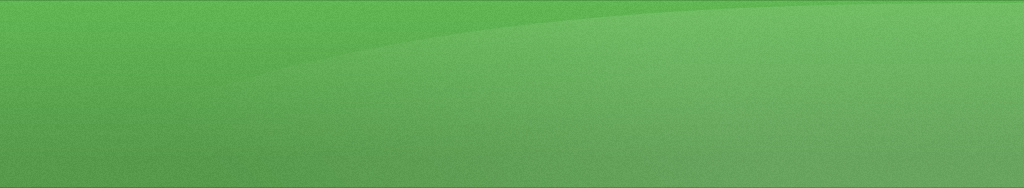
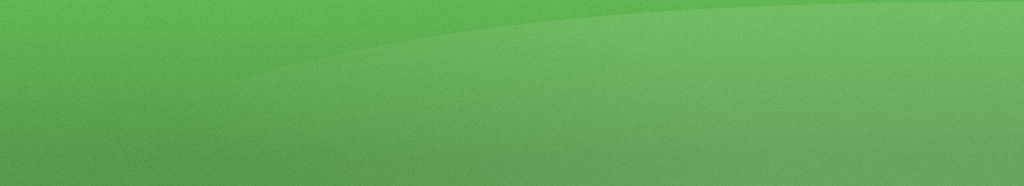
Expanded backgrounds

Changed region(s): [[0.0, 0.9946, 1.0, 1.0], [0.0, 0.0, 1.0, 0.0269]]

diff --git a/content/discussion.html b/content/discussion.html
@@ -14,9 +14,9 @@
     <div class="left">
       <p>This dataset is pretty cool, it’s almost what I need for my PhD on seahorse behaviour. But I find some problems in the performed methodology, and I would like to contact the author to check if it’s possible to access a raw, punprocessed dataset</p>
       <p>I’ve been processing the data on an Excel file and the total ampount of occurrences I find does not match with the amount given by the GBIF filtering.</p>
-      <footer>
+      <div class="footer">
       <a href="#">reply</a> <span class="reply-count">(1 reply below)</span>
-      </footer>
+      </div>
     </div>
     <div class="right">
 
@@ -31,9 +31,9 @@
   <div class="comment reply">
     <div class="left">
       <p>Hi Leslie. I’ve had the same problemas and (good news!) they can be fixed. What you have to do is this and that and.</p>
-      <footer>
+      <div class="footer">
       <a href="#">reply</a> <span class="reply-count">(1 reply below)</span>
-      </footer>
+      </div>
     </div>
     <div class="right">
 
@@ -48,9 +48,9 @@
   <div class="comment">
     <div class="left">
       <p>Mmm I disagree. I think this dataset has a big problem with the recolection methodology used for capturing seahorses. The author is using lactose to bail them, a well-recognized toxic substance for this kind of creatures.</p>
-      <footer>
+      <div class="footer">
       <a href="#">reply</a> <span class="reply-count">(1 reply below)</span>
-      </footer>
+      </div>
     </div>
     <div class="right">
 
@@ -65,7 +65,7 @@
 </div>
 
 <div class="header"></div>
-<div class="footer"></div>
+<div class="box_footer"></div>
 </article>
 
 
@@ -92,5 +92,5 @@
 </div>
 <div class="triangle"></div>
 <div class="header"></div>
-<div class="footer"></div>
+<div class="box_footer"></div>
 </article>

diff --git a/content/assets/css/_header.scss b/content/assets/css/_header.scss
@@ -1,10 +1,9 @@
 header {
   position:relative;
-  margin:auto;
-  width:1024px;
   padding-top:3px;
-  background:url('/assets/img/top_bar.jpg') top left repeat-x;
-  text-align:left;
+  background:url('/assets/img/top_bar.jpg') repeat-x;
+  height:285px;
+  text-align:center;
 
   #logo {
     position:absolute;
@@ -42,8 +41,20 @@ header {
 
   #top {
     position:relative;
-    background: url('/assets/img/top_header_bkg.jpg') no-repeat;
-    height: 98px;
+    background: url('/assets/img/top_header_bkg.jpg') repeat-x;
+    height: 97px;
+    text-align:center;
+
+    .content {
+      position:absolute;
+      width:1024px;
+      margin-left:-512px;
+      left:50%;
+      right:50%;
+      text-align:left;
+
+
+    }
 
     .account {
       position:absolute;
@@ -125,13 +136,18 @@ header {
     }
   }
 
-  ul#tabs {
-    position:absolute;
+  div#tabs {
+    position:relative;
+
+    ul {
     padding:0;
     margin:0;
-    margin-left: 57px;
-    bottom: 0px;
-    z-index:100;
+    position:absolute;
+    width:1024px - 100;
+    bottom:0;
+    left:50%;
+    right:50%;
+    margin-left:-512px + 57;
 
     li {
       float:left;
@@ -183,6 +199,7 @@ header {
         display:block;
         height:37px;
         padding-right:20px;
+      }
       }
       }
 
@@ -238,11 +255,20 @@ header {
   }
 
   #infoband {
-    height: 189px - 33;
+    position:relative;
+    height: 188px - 33;
     padding-top: 33px;
-    text-align:left;
-    padding-left:57px;
-    background: url('/assets/img/infoband.jpg') no-repeat;
+    background: url('/assets/img/infoband.jpg') repeat-x;
+
+    .content {
+      position:absolute;
+      width:1024px - 57;
+      left:50%;
+      right:50%;
+      padding-left:57px;
+      margin-left:-512px;
+      text-align:left;
+    }
 
     ul {
       padding:0; margin:0;

diff --git a/content/assets/css/_main.scss b/content/assets/css/_main.scss
@@ -1,5 +1,4 @@
 body {
-  padding-top:17px;
   text-align:center;
   font-size:13px;
   color:$medium_dark;
@@ -36,7 +35,6 @@ No text-shadow: twitter.com/miketaylr/status/12228805301 */
     clear:both;
     overflow:hidden;
     margin:auto;
-    width: 1024px;
     background-color: $content_base;
     text-align:center;
     padding-top:40px;
@@ -100,7 +98,7 @@ No text-shadow: twitter.com/miketaylr/status/12228805301 */
         background: url('/assets/img/box_top.png') no-repeat left top;
       }
 
-      .footer {
+      .box_footer {
         position:absolute;
         bottom: -19px;
         width:924px;
@@ -201,7 +199,7 @@ No text-shadow: twitter.com/miketaylr/status/12228805301 */
 
         }
 
-        footer {
+        .footer {
           padding:0;
           margin:0;
           height:auto;
@@ -243,7 +241,10 @@ No text-shadow: twitter.com/miketaylr/status/12228805301 */
           padding:15px;
           font-size:13px;
           background:url('/assets/img/textarea_bkg.png') no-repeat;
+
           resize: none;
+          overflow: auto;
+
           &:focus {
             outline:none;
           }
@@ -251,6 +252,10 @@ No text-shadow: twitter.com/miketaylr/status/12228805301 */
 
         button {
           float: right;
+
+          span {
+
+          }
         }
       }
       .right {

diff --git a/content/assets/css/_footer.scss b/content/assets/css/_footer.scss
@@ -1,11 +1,18 @@
 footer {
   position:relative;
-  margin: 0 auto 30px auto;
-  width:1024px - 76;
-  padding:24px 0 64px 76px;
-  height:400px - (24 + 64);
-  background: url('/assets/img/footer_bkg.jpg') no-repeat;
-  text-align:left;
+  height:400px;
+  background: url('/assets/img/footer_bkg.jpg') repeat-x;
+  text-align:center;
+
+  .content {
+    position:absolute;
+    left:50%;
+    right:50%;
+    width:1024px - 76;
+    margin-left:-512px;
+    padding:24px 0 64px 76px;
+    text-align:left;
+  }
 
   ul {
     display:block;
@@ -55,18 +62,22 @@ footer {
       }
     }
   }
+} // footer
 
   .copyright {
-    position:absolute;
-    left:0;
-    bottom:0;
-    width:1024px - (75px * 2);
-    background:#222222;
-    padding:12px 75px 12px 75px;
+    position:relative;
+    background:$uber_dark;
+    height:40px;
 
     p {
+      position:absolute;
+      width:1024px - 75*2;
+      left:50%;
+      right:50%;
+      margin-left:-512px;
+      padding:12px 75px 12px 75px;
+      text-align:left;
       color:$brightest;
       font-size:11px;
-    }
   }
 }

diff --git a/content/index.html b/content/index.html
@@ -38,7 +38,7 @@
   </div>
 </div>
 <div class="header"></div>
-<div class="footer"></div>
+<div class="box_footer"></div>
 </article>
 
 
@@ -72,7 +72,7 @@
   </div>
 </div>
 <div class="header"></div>
-<div class="footer"></div>
+<div class="box_footer"></div>
 </article>
 
 

diff --git a/content/assets/css/_color.scss b/content/assets/css/_color.scss
@@ -4,6 +4,7 @@ $background:   #B0B0B0;
 
 // Dark levels
 $darkest:      #000000;
+$uber_dark:    #222222;
 $ultra_dark:   #333333;
 $medium_dark:  #666666;
 $dark:         #999999;
